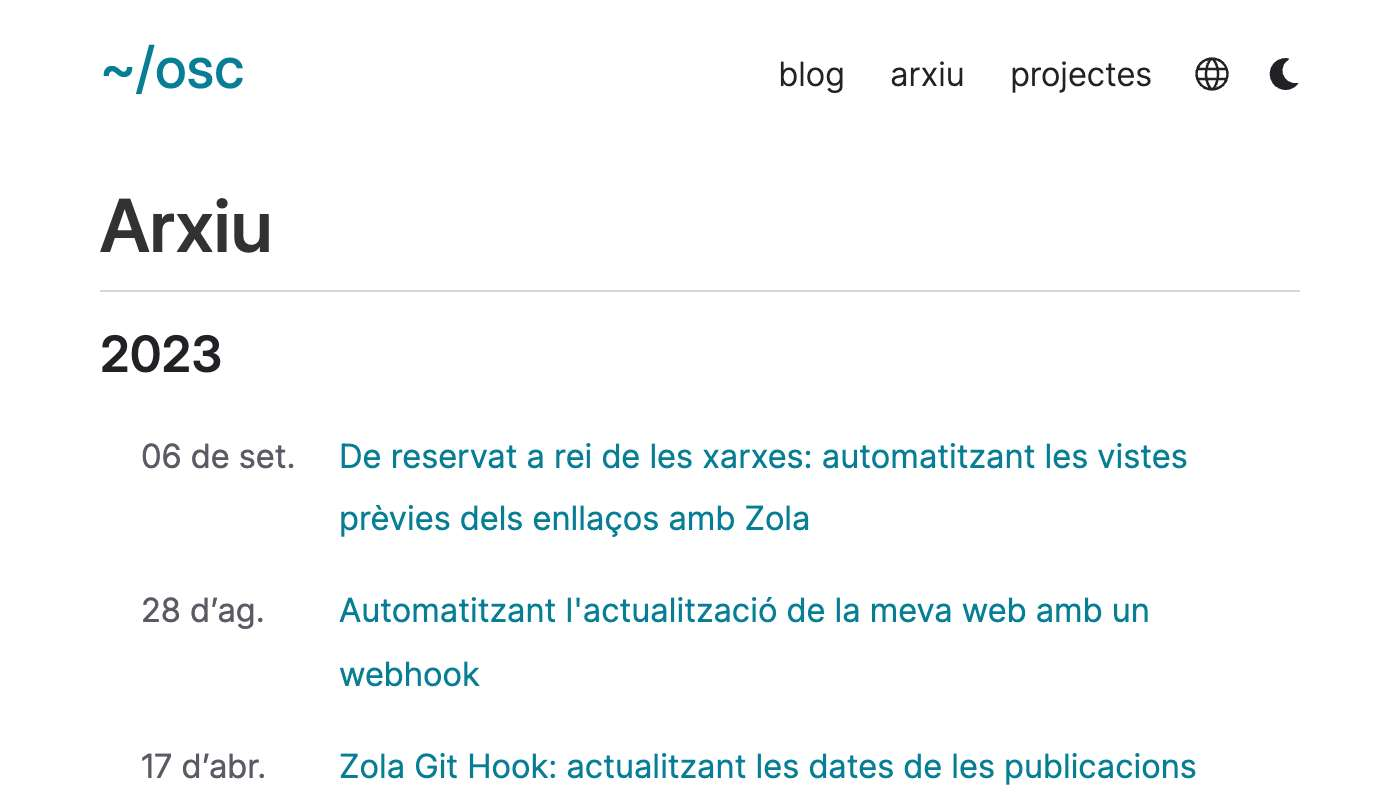
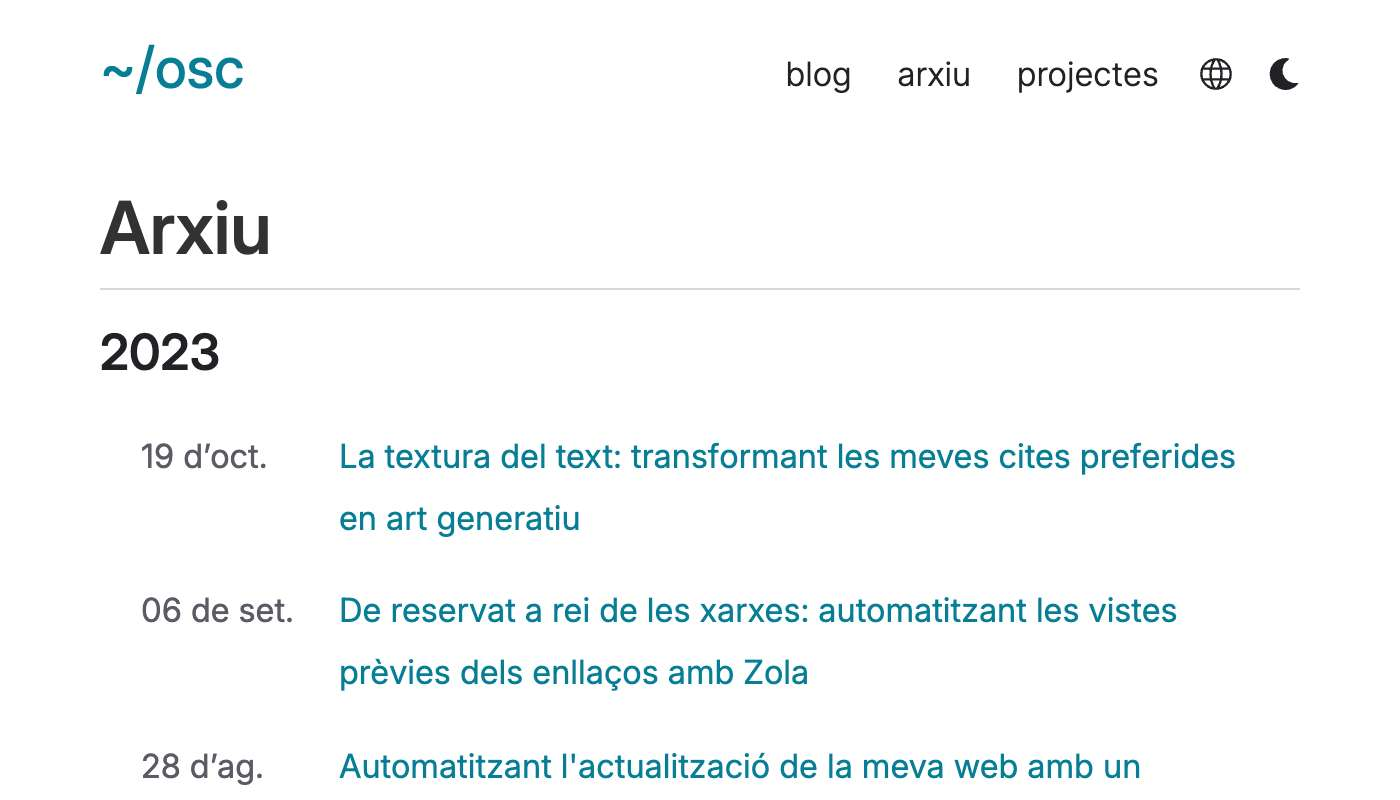
add translations of generative AI quotes article

diff --git a/content/blog/transforming-quotes-into-generative-art/index.ca.md b/content/blog/transforming-quotes-into-generative-art/index.ca.md
@@ -1,0 +1,124 @@
++++
+title = "La textura del text: transformant les meves cites preferides en art generatiu"
+date = 2023-10-19
+description = "Explorant la intersecció entre literatura i aprenentatge profund, he utilitzat Stable Diffusion per convertir frases en art visual. Un viatge a través d'una galeria on les paraules es converteixen en textures, colors i formes."
+
+[taxonomies]
+tags = ["experiment", "IA generativa"]
+
+[extra]
+social_media_card = "img/social_cards/blog_transforming_quotes_into_generative_art.jpg"
++++
+
+Porto més de 7 anys recol·lectant frases que m'han impactat d'alguna forma.
+
+Recentment, he estat experimentant amb Stable Diffusion (SD), un model de *deep learning* capaç de convertir paraules en imatges.
+
+Vaig decidir explorar què passaria si intentés convertir les meves frases preferides en imatges.
+
+El procés va ser senzill: vaig afegir la frase completa a SD (en anglès), a més d'algunes paraules relacionades amb l'estil (per exemple, "impasto" o "regla dels terços") i vaig clicar «Generar». Vaig crear centenars d'imatges i vaig escollir la meva preferida per a cada frase.
+
+Espero que almenys una imatge o frase et faci sentir alguna cosa.
+
+## David Peoples & Rutger Hauer — Blade Runner
+
+{{ multilingual_quote(original="All those moments will be lost in time, like tears in rain… Time to die.", translated="Tots aquests moments es perdran en el temps, com llàgrimes en la pluja… És hora de morir.") }}
+
+{{ full_width_image(src="blog/transforming-quotes-into-generative-art/img/tearsintherain.webp") }}
+
+<br>
+
+## Ben Brooks — Grow Up
+
+{{ multilingual_quote(original="I enjoy being outdoors during mornings and evenings because I find that the sky is much more creative in its use of colour.", translated="Gaudeixo de l'aire lliure durant els matins i les vesprades perquè trobo que el cel és molt més creatiu en el seu ús del color.") }}
+
+{{ full_width_image(src="blog/transforming-quotes-into-generative-art/img/creativeuseofcolour.webp") }}
+
+<br>
+
+## Fyodor Dostoevsky — Dimonis
+
+> Hi ha segons, no més de cinc o sis a la vegada, en què de sobte un sent la presència de l'harmonia eterna, plenament aconseguida. No és d'aquest món; no vull dir que sigui celestial, sinó que l'home, en el seu estat terrenal, no ho pot suportar. Cal transformar-se físicament o morir. És un sentiment nítid i indiscutible. Com si d'improvís un sentís la natura sencera i digués: «Sí. És veritat». Déu, en crear el món, deia al final de cada dia de la creació: «Sí, és veritat, això és bo». Això… això no és tendresa, sinó només alegria, sense més ni més. Un no perdona res, perquè no hi ha res per perdonar. No és que un estimi, oh, és més elevat que estimar! I el més terrible és que és tan evident i és tanta l'alegria… Si fossin més de cinc segons, l'ànima no ho resistiria i hauria de desaparèixer. En aquests cinc segons visc una vida, i per ells donaria tota la meva vida, perquè ho valen. Per resistir deu segons caldria transformar-se físicament.
+
+{{ full_width_image(src="blog/transforming-quotes-into-generative-art/img/changeordie.webp") }}
+
+<br>
+
+## Jean-Paul Sartre — Nàusea
+
+> Abans de prendre aquesta decisió em sentia tan espantosament sol que vaig pensar en el suïcidi. El que em va contenir va ser la idea que ningú, absolutament ningú es commouria amb la meva mort, que estaria encara més sol en la mort que en la vida.
+
+{{ full_width_image(src="blog/transforming-quotes-into-generative-art/img/suicide.webp") }}
+
+<br>
+
+## Hiromi Kawakami — El cel és blau, la terra blanca
+
+> He recorregut un llarg camí, el fred penetra les meves robes gastades. Aquesta tarda el cel és clar, quin mal em fa el cor!
+
+{{ full_width_image(src="blog/transforming-quotes-into-generative-art/img/coldseeps.webp") }}
+
+<br>
+
+## Ben Brooks — Hurra
+
+> Crec que estar amb algú amb qui no connectes és un camí més ràpid cap a la solitud que estar completament sol. És una cosa que et fa pensar en la impossibilitat de coexistir de forma significativa amb altres persones.
+
+{{ full_width_image(src="blog/transforming-quotes-into-generative-art/img/beingwithsomeoneyoudontconnect.webp") }}
+
+<br>
+
+## Rafael Lechowski — Quarcissus
+
+{{ multilingual_quote(original="Pero me miento,<br>
+me digo que la soledad es superior a la unión,<br>
+en mi pobre convencimiento,<br>
+y que sólo hay un amor eterno: el propio.<br>
+Pero no basta el amor propio:<br>
+¡igual que hay partes del cuerpo<br>
+que no puede rascar uno mismo,<br>
+hay lugares del alma que sólo puede acariciar otro!",
+translated="Però em menteixo,<br>
+em dic que la solitud és superior a la unió,<br>
+en el meu pobre convenciment,<br>
+i que només hi ha un amor etern: el propi.<br>
+Però no n'hi ha prou amb l'amor propi:<br>
+¡igual que hi ha parts del cos<br>
+que no pot gratar un mateix,<br>
+hi ha llocs de l'ànima que només pot acariciar un altre!") }}
+
+{{ full_width_image(src="blog/transforming-quotes-into-generative-art/img/quarcissus.webp") }}
+
+<br>
+
+## Victor Pelevin — Yellow Arrow
+
+> De sobte, a Andrei li colpeja la idea de quina autèntica tragèdia és que milions de rajos de llum emprenguin el seu viatge des de la superfície del sol, es llancin a través de l'infinit buit de l'espai i perforin el cel de la Terra amb diversos quilòmetres d'espessor, només per ser extingits en les repugnants restes de la sopa d'ahir. Potser aquestes fletxes grogues que s'inclinaven a través de la finestra eren conscients, esperaven alguna cosa millor, i s'adonaven que les seves esperances eren infundades, donant-los tots els ingredients necessaris per al sofriment.
+
+{{ full_width_image(src="blog/transforming-quotes-into-generative-art/img/yellowarrow.webp") }}
+
+<br>
+
+## Francisco Umbral — Mortal i Rosa
+
+{{ multilingual_quote(original="Vidas que arden ante mi vida, tiempo que se consume y corre. ¿Asisten ellos al espectáculo de mi tiempo, a la hoguera de mi vida? Damos una luz, al extinguirnos, que sólo ven los demás. Nosotros no la vemos. Vamos en llamas por la vida, y nadie nos avisa del incendio, por no asustarnos. Pero cómo nos ven arder. Como yo veo arder al escritor, al amigo. Vamos entre luces, entre noches, hacia no sé dónde, por la ciudad, hablando, soñando, dentro del coche, lentamente, contra el hielo, el miedo, la sombra, pasando huecos inmensos de tiempo, calles dormidas, multitudes.", translated="Vides que cremen davant la meva vida, temps que es consumeix i corre. Assisteixen ells a l'espectacle del meu temps, a la foguera de la meva vida? Donem una llum, en extingir-nos, que només veuen els altres. Nosaltres no la veiem. Anem en flames per la vida, i ningú ens avisa del foc, per no espantar-nos. Però com ens veuen cremar. Com jo veig cremar l'escriptor, l'amic. Anem entre llums, entre nits, cap a no sé on, per la ciutat, parlant, somiant, dins del cotxe, a poc a poc, contra el gel, la por, l'ombra, passant buits immensos de temps, carrers adormits, multituds.") }}
+
+{{ full_width_image(src="blog/transforming-quotes-into-generative-art/img/fire.webp") }}
+
+<br>
+
+## Charlie Kaufman — Synecdoche, New York
+
+{{ multilingual_quote(original="Everything is more complicated than you think. You only see a tenth of what is true. There are a million little strings attached to every choice you make; you can destroy your life every time you choose. But maybe you won't know for twenty years. And you may never ever trace it to its source. And you only get one chance to play it out. Just try and figure out your own divorce. And they say there is no fate, but there is: it's what you create. And even though the world goes on for eons and eons, you are only here for a fraction of a fraction of a second. Most of your time is spent being dead or not yet born. But while alive, you wait in vain, wasting years, for a phone call or a letter or a look from someone or something to make it all right. And it never comes or it seems to but it doesn't really. And so you spend your time in vague regret or vaguer hope that something good will come along. Something to make you feel connected, something to make you feel whole, something to make you feel loved. And the truth is I feel so angry, and the truth is I feel so fucking sad, and the truth is I've felt so fucking hurt for so fucking long and for just as long I've been pretending I'm OK, just to get along, just for, I don't know why, maybe because no one wants to hear about my misery, because they have their own. Well, fuck everybody. Amen.", translated="Tot és més complicat del que creus. Només veus una desena part del que és veritat. Hi ha un milió de petites cordes lligades a cada decisió que prens; pots destruir la teva vida cada vegada que triïs. Però potser no ho sabràs fins d'aquí a vint anys. I potser mai no podràs rastrejar-ho fins al seu origen. I només tens una oportunitat per intentar-ho. Intenta entendre el teu propi divorci. Diuen que no hi ha destí, però sí que n'hi ha: és el que tu crees. I encara que el món continuï per eons i eons, només estàs aquí per una fracció d'una fracció de segon. La major part del teu temps es passa mort o encara no nascut. Però mentre estàs viu, esperes en va —malbaratant anys— una trucada telefònica o una carta o una mirada d'algú o alguna cosa que ho arregli tot. I mai no arriba o sembla que arribi, però en realitat no. Així que passes el teu temps en un vague penediment o una esperança més vaga que alguna cosa bona arribarà. Alguna cosa que et faci sentir connectat, alguna cosa que et faci sentir complet, alguna cosa que et faci sentir estimat. I la veritat és que em sento tan enfadat, i la veritat és que em sento tan fotudament trist, i la veritat és que m'he sentit tan fotudament ferit durant tant de temps i durant igual de temps he estat fingint que estic bé, només per continuar endavant, només per, no sé per què, potser perquè a ningú li interessa sentir parlar de la meva misèria, perquè ells tenen la seva. Doncs que fotin tots. Amén.") }}
+
+{{ full_width_image(src="blog/transforming-quotes-into-generative-art/img/synecdoche.webp") }}
+
+---
+
+Això és tot per avui~
+
+Ha estat un experiment divertit. He hagut de veure moltes aberracions (SD és terrible amb les mans) i sovint m'han sorprès els resultats.
+
+Probablement compartiré més creacions d'IA en el futur.
+
+Fins aviat!

diff --git a/content/blog/transforming-quotes-into-generative-art/index.es.md b/content/blog/transforming-quotes-into-generative-art/index.es.md
@@ -1,0 +1,116 @@
++++
+title = "La textura del texto: transformando mis citas favoritas en arte generativo"
+date = 2023-10-19
+description = "Explorando la intersección entre literatura y el aprendizaje profundo, he utilizado Stable Diffusion para convertir citas en arte visual. Un viaje a través de una galería donde las palabras se convierten en texturas, colores y formas."
+
+[taxonomies]
+tags = ["experimento", "IA generativa"]
+
+[extra]
+social_media_card = "img/social_cards/blog_transforming_quotes_into_generative_art.jpg"
++++
+
+Llevo más de 7 años coleccionando citas que me han impactado de algún modo.
+
+Recientemente, he estado experimentando con Stable Diffusion (SD), un modelo de *deep learning* capaz de convertir palabras en imágenes.
+
+Decidí explorar qué pasaría si intentase convertir mis citas preferidas en imágenes.
+
+El proceso fue simple: añadí la cita entera a SD (en inglés), además de algunas palabras relacionadas con el estilo (por ejemplo, «impasto» o «regla de los tercios») e hice clic en «Generar». Creé centenares de imágenes y elegí mi favorita para cada cita.
+
+Espero que al menos una imagen o cita te haga sentir algo.
+
+## David Peoples & Rutger Hauer — Blade Runner
+
+{{ multilingual_quote(original="All those moments will be lost in time, like tears in rain… Time to die.", translated="Todos esos momentos se perderán en el tiempo, como lágrimas en la lluvia… Es hora de morir.") }}
+
+{{ full_width_image(src="blog/transforming-quotes-into-generative-art/img/tearsintherain.webp") }}
+
+<br>
+
+## Ben Brooks — Grow Up
+
+{{ multilingual_quote(original="I enjoy being outdoors during mornings and evenings because I find that the sky is much more creative in its use of colour.", translated="Disfruto del aire libre durante las mañanas y las tardes porque encuentro que el cielo es mucho más creativo en su uso del color.") }}
+
+{{ full_width_image(src="blog/transforming-quotes-into-generative-art/img/creativeuseofcolour.webp") }}
+
+<br>
+
+## Fyodor Dostoevsky — Demons
+
+> Hay segundos, no más de cinco o seis a la vez, en que de pronto uno siente la presencia de la armonía eterna, plenamente alcanzada. No es algo de este mundo; no quiero decir que sea algo celestial, sino que el hombre, en su estado terrenal, no lo puede sobrellevar. Hay que transformarse físicamente o morir. Es un sentimiento nítido e incuestionable. Como si de improviso uno sintiera la naturaleza entera y dijese: «Sí. Es verdad». Dios, al crear el mundo, decía al fin de cada día de la creación: «Sí, es verdad, esto es bueno». Esto... esto no es ternura, sino solo alegría, sin más. Uno no perdona nada, pues no hay nada que perdonar. No es que uno ame, ¡oh, es más elevado que el amor! Y lo más terrible es que es tan evidente y es tal la alegría... Si fuesen más de cinco segundos, el alma no lo resistiría y tendría que desaparecer. En esos cinco segundos vivo una vida, y por ellos daría toda mi vida, porque lo vale. Para resistir diez segundos habría que transformarse físicamente.
+
+{{ full_width_image(src="blog/transforming-quotes-into-generative-art/img/changeordie.webp") }}
+
+<br>
+
+## Jean-Paul Sartre — Nausea
+
+> Antes de tomar esa decisión me sentía tan espantosamente solo que pensé en el suicidio. Lo que me contuvo fue la idea de que nadie, absolutamente nadie se conmovería con mi muerte, que estaría aún más solo en la muerte que en la vida.
+
+{{ full_width_image(src="blog/transforming-quotes-into-generative-art/img/suicide.webp") }}
+
+<br>
+
+## Hiromi Kawakami — El cielo es azul, la tierra blanca
+
+> He recorrido un largo camino, el frío penetra mi ropa gastada. Esta tarde el cielo está despejado, ¡cómo me duele el corazón!
+
+{{ full_width_image(src="blog/transforming-quotes-into-generative-art/img/coldseeps.webp") }}
+
+<br>
+
+## Ben Brooks — Hurra
+
+> Creo que estar con alguien con quien no conectas es un camino más rápido hacia la soledad que estar totalmente solo. Es algo que te lleva a pensar en la imposibilidad de coexistir de forma significativa con otras personas.
+
+{{ full_width_image(src="blog/transforming-quotes-into-generative-art/img/beingwithsomeoneyoudontconnect.webp") }}
+
+<br>
+
+## Rafael Lechowski — Quarcissus
+
+> Pero me miento,
+> me digo que la soledad es superior a la unión,
+> en mi pobre convencimiento,
+> y que sólo hay un amor eterno: el propio.
+> Pero no basta el amor propio:
+> ¡igual que hay partes del cuerpo
+> que no puede rascar uno mismo,
+> hay lugares del alma que sólo puede acariciar otro!
+
+{{ full_width_image(src="blog/transforming-quotes-into-generative-art/img/quarcissus.webp") }}
+
+<br>
+
+## Victor Pelevin — Yellow Arrow
+
+> Repentinamente, a Andrei le golpeó la idea de cuán genuina tragedia era que millones de rayos de luz emprendieran su viaje desde la superficie del sol, se lanzaran a través del infinito vacío del espacio y perforaran el cielo de la Tierra con varios kilómetros de espesor, sólo para ser extinguidos en los repugnantes restos de la sopa de ayer. Tal vez estas flechas amarillas que se inclinaban a través de la ventana eran conscientes, esperaban algo mejor, y se daban cuenta de que sus esperanzas eran infundadas, dándoles todos los ingredientes necesarios para el sufrimiento.
+
+{{ full_width_image(src="blog/transforming-quotes-into-generative-art/img/yellowarrow.webp") }}
+
+<br>
+
+## Francisco Umbral — Mortal y Rosa
+
+> Vidas que arden ante mi vida, tiempo que se consume y corre. ¿Asisten ellos al espectáculo de mi tiempo, a la hoguera de mi vida? Damos una luz, al extinguirnos, que sólo ven los demás. Nosotros no la vemos. Vamos en llamas por la vida, y nadie nos avisa del incendio, por no asustarnos. Pero cómo nos ven arder. Como yo veo arder al escritor, al amigo. Vamos entre luces, entre noches, hacia no sé dónde, por la ciudad, hablando, soñando, dentro del coche, lentamente, contra el hielo, el miedo, la sombra, pasando huecos inmensos de tiempo, calles dormidas, multitudes.
+
+{{ full_width_image(src="blog/transforming-quotes-into-generative-art/img/fire.webp") }}
+
+<br>
+
+## Charlie Kaufman — Synecdoche, New York
+
+{{ multilingual_quote(original="Everything is more complicated than you think. You only see a tenth of what is true. There are a million little strings attached to every choice you make; you can destroy your life every time you choose. But maybe you won't know for twenty years. And you may never ever trace it to its source. And you only get one chance to play it out. Just try and figure out your own divorce. And they say there is no fate, but there is: it's what you create. And even though the world goes on for eons and eons, you are only here for a fraction of a fraction of a second. Most of your time is spent being dead or not yet born. But while alive, you wait in vain, wasting years, for a phone call or a letter or a look from someone or something to make it all right. And it never comes or it seems to but it doesn't really. And so you spend your time in vague regret or vaguer hope that something good will come along. Something to make you feel connected, something to make you feel whole, something to make you feel loved. And the truth is I feel so angry, and the truth is I feel so fucking sad, and the truth is I've felt so fucking hurt for so fucking long and for just as long I've been pretending I'm OK, just to get along, just for, I don't know why, maybe because no one wants to hear about my misery, because they have their own. Well, fuck everybody. Amen.", translated="Todo es más complicado de lo que crees. Solo ves una décima parte de lo que es verdad. Hay un millón de pequeñas cuerdas sujetas a cada decisión que tomas; puedes destruir tu vida cada vez que eliges. Pero quizás no lo sepas hasta dentro de veinte años. Y quizás nunca logres rastrearlo hasta su origen. Y sólo tienes una oportunidad. Intenta descifrar tu propio divorcio. Dicen que no hay destino, pero sí lo hay: es lo que tú creas. Y aunque el mundo continúe por eones y eones, sólo estás aquí por una fracción de una fracción de segundo. La mayor parte del tiempo te la pasas muerto o aún no nacido. Pero mientras estás vivo, esperas en vano, desperdiciando años, por una llamada telefónica o una carta o una mirada de alguien o algo que lo arregle todo. Y nunca llega o parece que llega, pero en realidad no. Y entonces pasas tu tiempo en un vago arrepentimiento o una esperanza más vaga de que algo bueno vendrá. Algo que te haga sentir conectado, algo que te haga sentir completo, algo que te haga sentir amado. Y la verdad es que me siento tan enfadado, y la verdad es que me siento tan jodidamente triste, y la verdad es que me he sentido tan jodidamente herido durante tanto tiempo y durante igual de tiempo he estado fingiendo que estoy bien, solo para seguir adelante, sólo para, no sé por qué, tal vez porque nadie quiere oír hablar de mi miseria, porque ellos tienen la suya. Bueno, que se joda todo el mundo. Amén.") }}
+
+{{ full_width_image(src="blog/transforming-quotes-into-generative-art/img/synecdoche.webp") }}
+
+---
+
+Eso es todo por hoy~
+
+Ha sido un experimento divertido. He tenido que ver muchas aberraciones (SD es terrible con las manos) y a menudo me han sorprendido los resultados.
+
+Probablemente comparta más creaciones de IA en el futuro.
+
+¡Hasta pronto!
